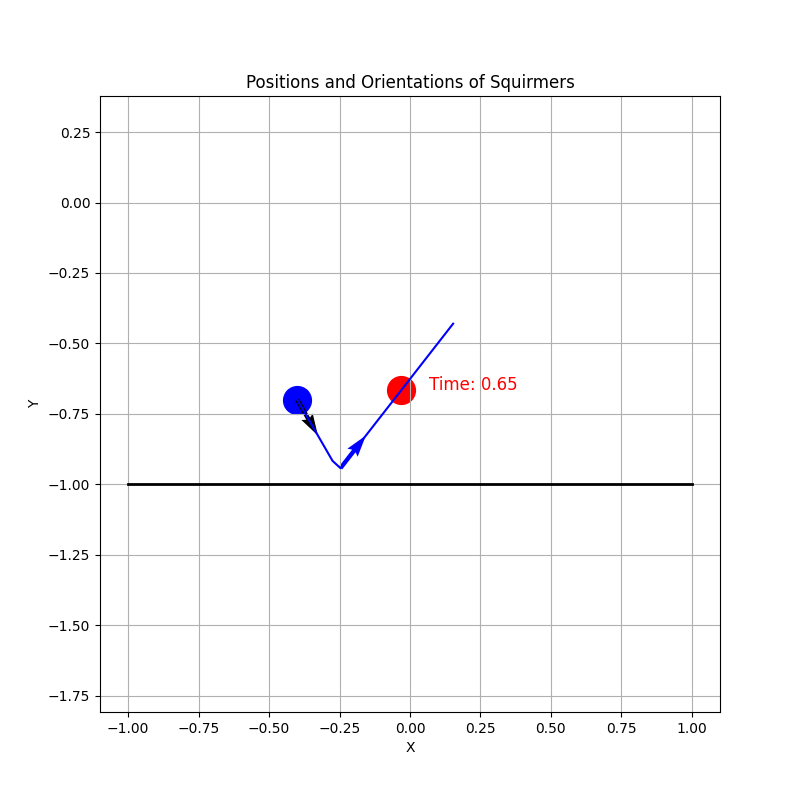
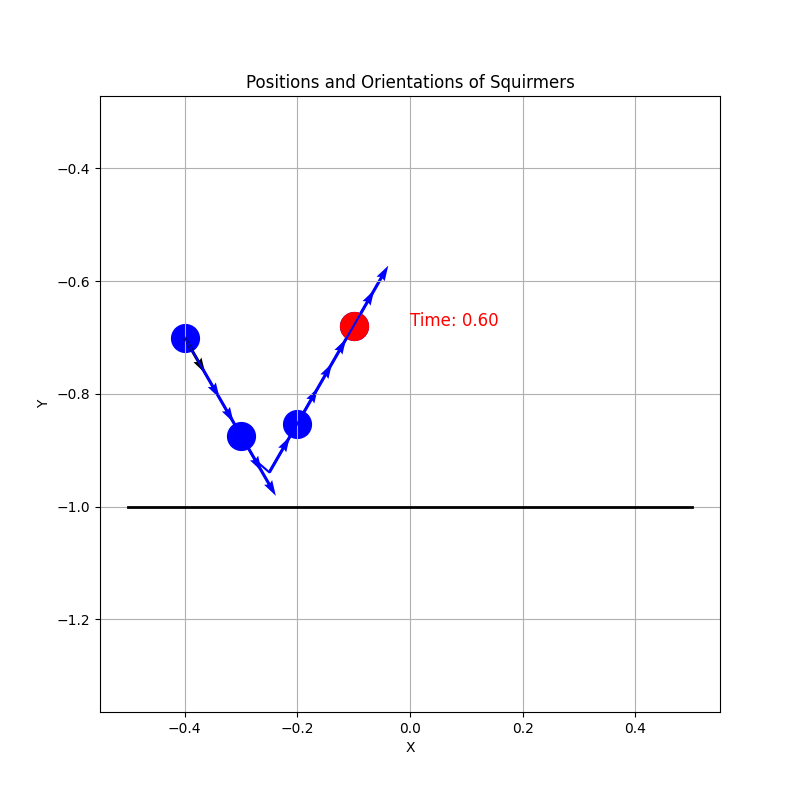
sim_border update

diff --git a/Code/simulation.py b/Code/simulation.py
@@ -6,13 +6,16 @@ from vicsek import Vicsek_continous
 from plot import plot_sim_nsquirmers, create_video_from_history, plot_time
 
 def sim_interacting_squirmers(N, xs, ys, orients, a, beta, v0, Nx, Ny, dt, dt_out, T, Es, ds, mu, R, lnEps_cr, Do, no, border, sim_bord, filename, border_plot, dir='graphs'):
-    #border : False or True to plot the borders
-    #sim_border : False or True, if True it does the simulation with one squirmer and one border
+    #border : False to simulate a channel and True to simulate a box
+    #border_plot : False or True to plot the borders
+    #sim_bord : False or True, if True it does the simulation with one squirmer and one border
     interact = InteractingSquirmers(N, xs, ys, orients, a, beta, v0, Nx, Ny, dt, dt_out, T, Es, ds, mu, R, lnEps_cr, Do, no, border)
     history = interact.loop_time()
-    plot_time(interact, interact.vector_dists_min, "min_dist_" + filename, 'minimal distance', dir)
-    plot_time(interact, interact.list_polar, "polar_" + filename, 'polar parameter', dir)
-    plot_time(interact, interact.list_cluster_param, "cluster_" + filename, 'clustering order parameter', dir)
+
+    if sim_bord == False:
+        plot_time(interact, interact.vector_dists_min, "min_dist_" + filename, 'minimal distance', dir)
+        plot_time(interact, interact.list_polar, "polar_" + filename, 'polar parameter', dir)
+        plot_time(interact, interact.list_cluster_param, "cluster_" + filename, 'clustering order parameter', dir)
 
     plot_sim_nsquirmers(history, Nx, Ny, N, a, border_plot, sim_bord, filename=filename, dir=dir)
 

diff --git a/Code/run.py b/Code/run.py
@@ -71,14 +71,17 @@ def main(simulation, N, filename):
     elif simulation == 'plot':
         sim_interacting_squirmers(N, xs, ys, orients, a, beta, v0, Nx, Ny, dt, dt_out, T, Es, ds, mu, R, lnEps_cr, Do, no, border, False, filename, border_plot, dir='graphs')
     elif simulation == 'border':
+        a = 0.05
         xs = [-0.4]
         ys = [-0.7]
         orient = [[-np.pi/6], [-np.pi/4], [-np.pi/3], [-np.pi/2]] 
         N = 1
         sim_border = True
+        T = 0.7
+        v0 = 1
         for i, pi in enumerate(orient):
             filename = 'sim_num_' + str(i)
-            sim_interacting_squirmers(N, xs, ys, pi, a, beta, v0, Nx, Ny, dt, dt_out, T, Es, ds, mu, R, lnEps_cr, Do, no, border, sim_border, filename, border_plot, dir='graphs/border')
+            sim_interacting_squirmers(N, xs, ys, pi, a, beta, v0, 0.5, 1, dt, dt_out, T, Es, ds, mu, R, lnEps_cr, Do, no, border, sim_border, filename, border_plot, dir='graphs/border')
     elif simulation == 'Eo_sim':
         sim_Eo_param(Eo, a, v0, dt, dt_out, T, Es, ds, mu, lnEps_cr, Do, no, border, border_plot)
     elif simulation == 'vicsek':

diff --git a/Code/plot.py b/Code/plot.py
@@ -49,7 +49,10 @@ def plot_sim_nsquirmers(histories, Nx, Ny, N, a, border, sim_border, filename, d
 
     nb_pixl_fig = fig.get_size_inches()[1]*fig.dpi
     radius_scatter = nb_pixl_fig/(2*Ny/a)
-    s = radius_scatter
+    if sim_border == True:
+        s = radius_scatter**2
+    else:
+        s = radius_scatter
     scale_arrow = 15
     w = 0.005
 
